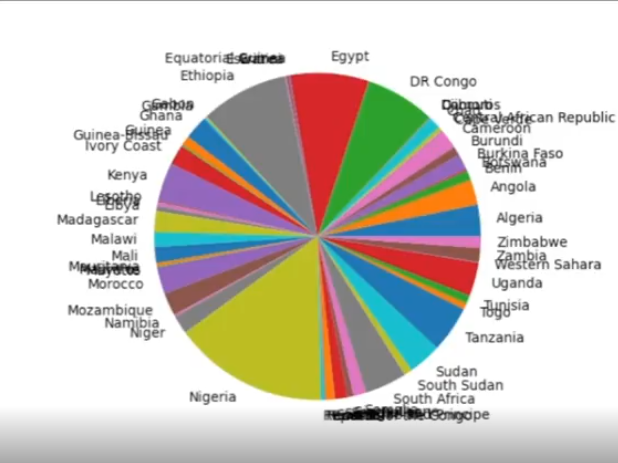
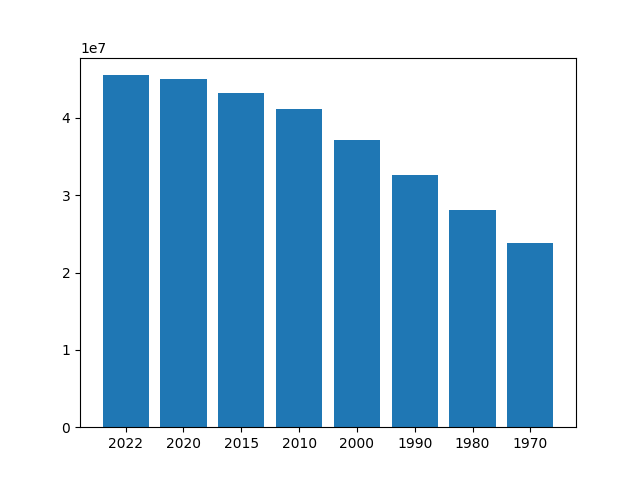
finish python lab

diff --git a/Python/Python_avanzado/py-project/app/main.py b/Python/Python_avanzado/py-project/app/main.py
@@ -3,33 +3,38 @@ import read_csv
 import charts
 import pandas as pd
 
+
 def run():
-  '''
-  data = read_csv.read_csv('./data.csv') # leemos el csv, gracias al módulo línea 2
-  data = list(filter(lambda item : item['Continent'] == 'South America',data))
+    # leemos el csv, gracias al módulo línea 2
+    '''
+    data = read_csv.read_csv('./data.csv')
+    data = list(
+        filter(lambda item: item['Continent'] == 'South America', data))
 
-  countries = list(map(lambda x: x['Country'], data))
-  percentages = list(map(lambda x: x['World Population Percentage'], data))
-  charts.generate_pie_chart(countries, percentages)
-  
-  '''
-  data = read_csv.read_csv('./data.csv')
-  df = pd.read:csv('data.csv')
-  df = df[df['Continent'] == 'South America']
-  countries = df['Country'].values
-  percentages = df['World Population Percentage'].values
-  charts.generate_pie_chart(countries, percentages)
-  
-  country = input('Type Country => ')
-  print(country)
+    countries = list(map(lambda x: x['Country'], data))
+    percentages = list(map(lambda x: x['World Population Percentage'], data))
+    charts.generate_pie_chart(countries, percentages)
+    '''
 
-  result = utils.population_by_country(data, country)
+    df = pd.read_csv('./data.csv') # Leemos el archivo CSV en un DataFrame
+    df = df[df['Continent'] == 'Africa']
+    countries = df['Country'].values
+    percentages = df['World Population Percentage'].values
+    charts.generate_pie_chart(countries, percentages)
 
-  if len(result) > 0:
-    country = result[0]
+    data = read_csv.read_csv('./data.csv')
+    country = input('Type Country => ')
     print(country)
-    labels, values = utils.get_population(country)
-    charts.generate_bar_chart(country['Country'], labels, values)
+
+    result = utils.population_by_country(data, country)
+
+    if len(result) > 0:
+        country = result[0]
+        print(country)  #muestra el diccionario completo
+        labels, values = utils.get_population(country)
+        charts.generate_bar_chart(country['Country'], labels, values)
+    else:
+        print('No se encontró el país solicitado.')
 
 if __name__ == '__main__':
-  run()
+    run()

diff --git a/Python/Python_avanzado/py-project/app/utils.py b/Python/Python_avanzado/py-project/app/utils.py
@@ -1,19 +1,31 @@
 def get_population(country_dict):
-  population_dict = {
-    '2022': int(country_dict['2022 Population']),
-    '2020': int(country_dict['2020 Population']),
-    '2015': int(country_dict['2015 Population']),
-    '2010': int(country_dict['2010 Population']),
-    '2000': int(country_dict['2000 Population']),
-    '1990': int(country_dict['1990 Population']),
-    '1980': int(country_dict['1980 Population']),
-    '1970': int(country_dict['1970 Population'])
-  }
-  labels = population_dict.keys()
-  values = population_dict.values()
-  return labels, values
+    population_dict = {
+        '2022': int(country_dict['2022 Population']),
+        '2020': int(country_dict['2020 Population']),
+        '2015': int(country_dict['2015 Population']),
+        '2010': int(country_dict['2010 Population']),
+        '2000': int(country_dict['2000 Population']),
+        '1990': int(country_dict['1990 Population']),
+        '1980': int(country_dict['1980 Population']),
+        '1970': int(country_dict['1970 Population'])
+    }
+    labels = population_dict.keys()
+    values = population_dict.values()
+    return labels, values
 
 
 def population_by_country(data, country):
-  result = list(filter(lambda item: item['Country'] == country, data))
-  return result
+    # Normalizamos el nombre del país ingresado
+    normalized_input = country.strip().lower().replace('\n', '')
+
+    result = []
+    for item in data:
+        country_name = str(item['Country']).strip().lower().replace('\n', '')
+        if country_name == normalized_input:
+            result.append(item)
+
+    if not result:
+        print(f"[DEBUG] No se encontró '{normalized_input}' en el archivo CSV.")
+        print(f"[DEBUG] Algunos países del CSV son: {[d['Country'] for d in data[:10]]}")
+
+    return result

diff --git a/Python/Python_avanzado/py-project/app/read_csv.py b/Python/Python_avanzado/py-project/app/read_csv.py
@@ -1,16 +1,21 @@
 import csv
 
 def read_csv(path):
-  with open(path, 'r') as csvfile:
-    reader = csv.reader(csvfile, delimiter=',')
-    header = next(reader)
-    data = []
-    for row in reader:
-      iterable = zip(header, row)
-      country_dict = {key: value for key, value in iterable}
-      data.append(country_dict)
-    return data
+    with open(path, 'r', encoding='utf-8') as csvfile:
+        reader = csv.reader(csvfile, delimiter=',')
+        header = next(reader)
+        # Limpia espacios en los encabezados
+        header = [h.strip() for h in header]
+        data = []
+        for row in reader:
+            # Limpia espacios y saltos de línea en los valores
+            row = [value.strip() for value in row]
+            iterable = zip(header, row)
+            country_dict = {key: value for key, value in iterable}
+            data.append(country_dict)
+        return data
+
 
 if __name__ == '__main__':
-  data = read_csv('./app/data.csv')
-  print(data[0])
+    data = read_csv('./app/data.csv')
+    print(data[0])

diff --git a/Python/Python_avanzado/py-project/app/charts.py b/Python/Python_avanzado/py-project/app/charts.py
@@ -1,20 +1,23 @@
 import matplotlib.pyplot as plt
 
+
 def generate_bar_chart(name, labels, values):
-  fig, ax = plt.subplots()
-  ax.bar(labels, values)
-  plt.savefig(f'./imgs/{name}.png')
-  plt.close()
+    fig, ax = plt.subplots()
+    ax.bar(labels, values)
+    plt.savefig(f'./images/{name}.png')
+    plt.close()
+
 
 def generate_pie_chart(labels, values):
-  fig, ax = plt.subplots()
-  ax.pie(values, labels=labels)
-  ax.axis('equal')
-  plt.savefig('bar.png')
-  plt.close()
+    fig, ax = plt.subplots()
+    ax.pie(values, labels=labels)
+    ax.axis('equal')
+    plt.savefig('chart_pie_prueba.png')
+    plt.close()
+
 
 if __name__ == '__main__':
-  labels = ['a', 'b', 'c']
-  values = [10, 40, 800]
-  # generate_bar_chart(labels, values)
-  generate_pie_chart(labels, values)
+    labels = ['a', 'b', 'c']
+    values = [10, 40, 800]
+    generate_bar_chart(labels, values)
+    generate_pie_chart(labels, values)
